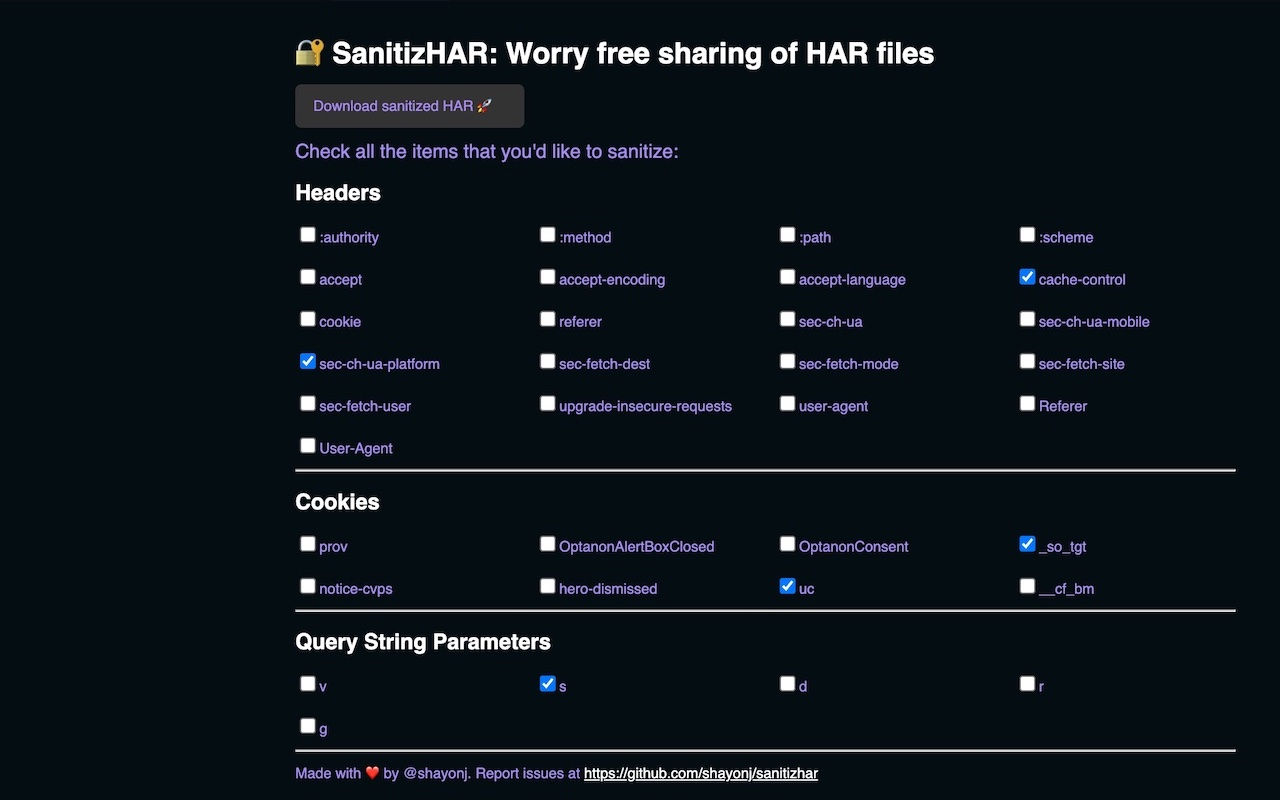
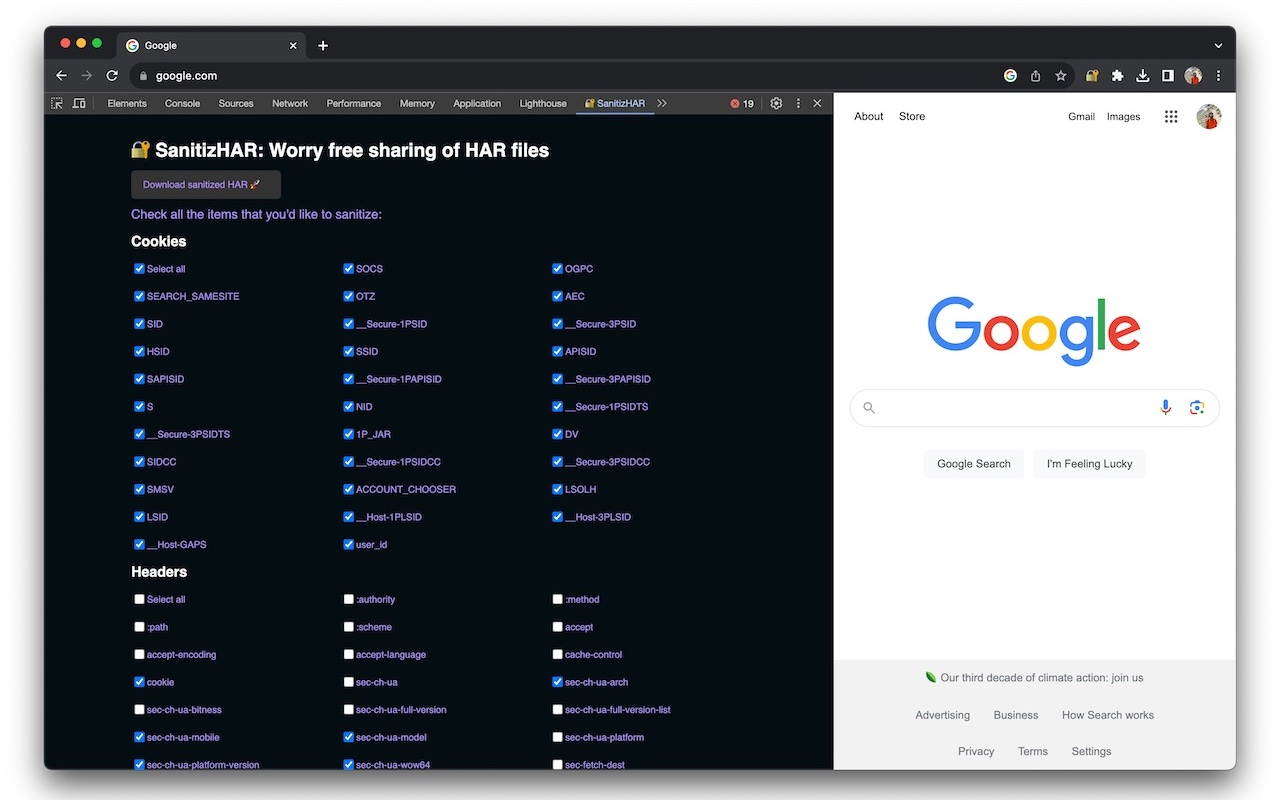
Update preview image and move cookies up

diff --git a/src/devtools.html b/src/devtools.html
@@ -22,13 +22,12 @@
         </p>
       </div>
       <div id="har-details" class="holder">
+        <h2>Cookies</h2>
+        <div class="checkboxes" id="cookies-section"></div>
         <h2>Headers</h2>
         <div class="checkboxes" id="headers-section"></div>
         <div class="margin-top"></div>
         <hr />
-        <div class="margin-top"></div>
-        <h2>Cookies</h2>
-        <div class="checkboxes" id="cookies-section"></div>
         <div class="margin-top"></div>
         <hr />
         <div class="margin-top"></div>
